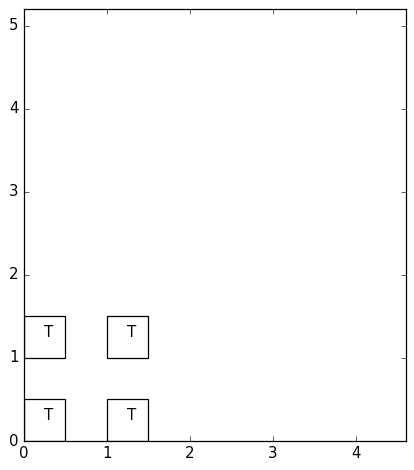
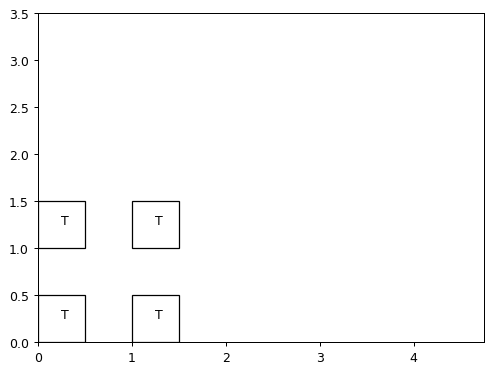
added Dalmarnock HRRs

Changed region(s): [[0.0, 0.0, 0.9855, 0.9732]]

diff --git a/flashover/flashover.py b/flashover/flashover.py
@@ -63,7 +63,7 @@ def firecalc(configlocation, room, layout, firstign):
 
     #Creating a ist of accumulated FTP for each item
     FTP = np.zeros(num_items) #FTP for each item
-
+    HRR_list = list()
 
     for t, time in enumerate(timelist):
 
@@ -107,7 +107,8 @@ def firecalc(configlocation, room, layout, firstign):
              
                         if FTP[i] > iteminfo.FTP[item]:
                             firelist[i] = time
-    return [flashover,firelist]
+        HRR_list.append(HRR)
+    return [flashover,firelist,HRR_list]
 
     
                                            

diff --git a/flashover/layouts/imagemaker.py b/flashover/layouts/imagemaker.py
@@ -8,8 +8,8 @@ import matplotlib.pyplot as plt
 import matplotlib.patches as patches
 
 #Specified by user
-roomwidth = 4.6 #xdir
-roomlength = 5.2 #ydir
+roomwidth = 4.75 #xdir
+roomlength = 3.5 #ydir
 
 #Loops through all csv files in current directory and creates a pictures in the ./pictures directory
 for filename in os.listdir('.'):

diff --git a/flashover/validation.py b/flashover/validation.py
@@ -1,4 +1,5 @@
 from flashover import firecalc
-
+import pdb
 configlocation = 'modelconfig.yaml'
-print(firecalc(configlocation, 'dalmarnock', 'dalmarnock',8))
+A = firecalc(configlocation, 'dalmarnock','dalmarnock',7)
+print(A[0],A[1])
